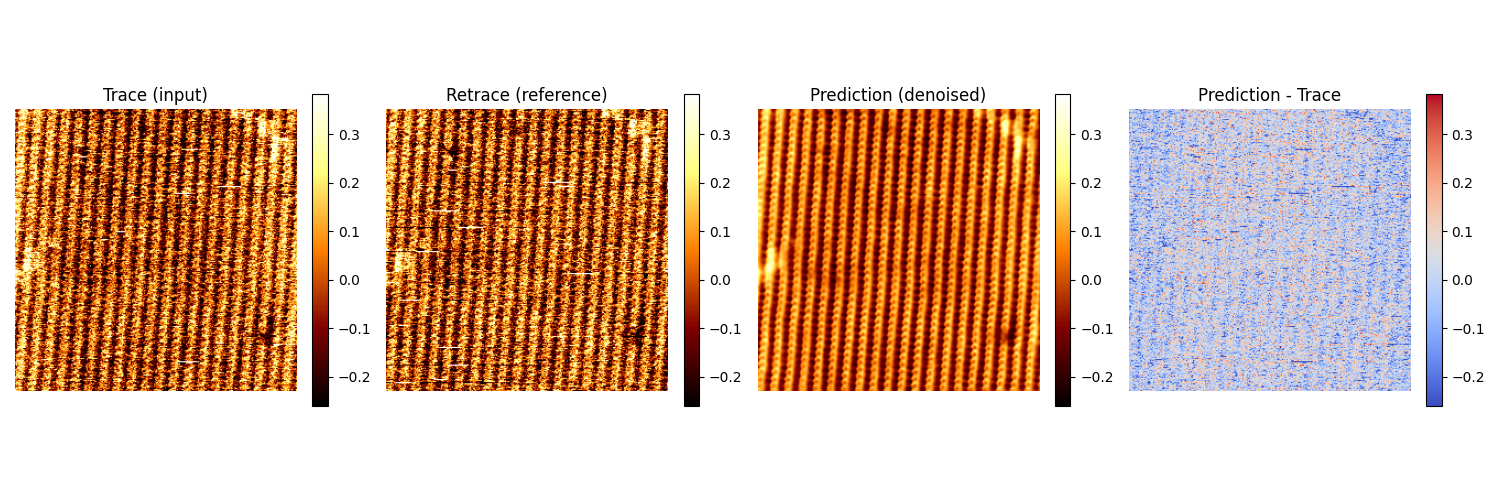
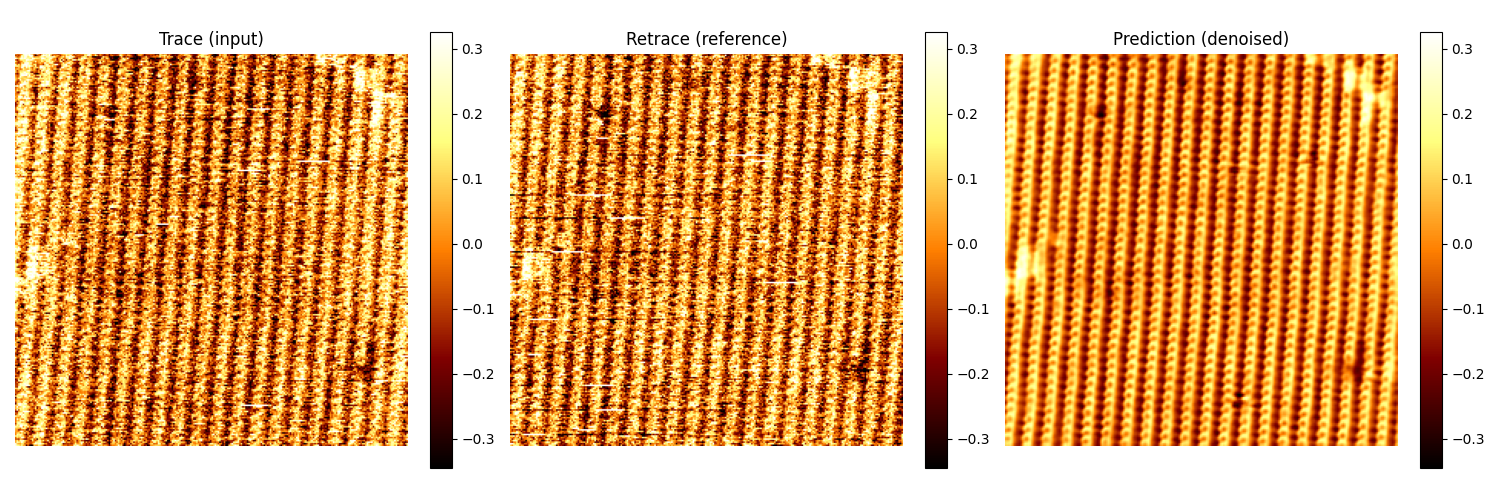
upd_img

diff --git a/README.md b/README.md
@@ -13,8 +13,8 @@ The name stands for **self-superVised Image denoising with Paired learning and E
 
 ## Denoising Example
 
-![PLACEHOLDER: First AFM example comparing trace, retrace, and VIPER output.](docs/images/denoising-example.png)
-![PLACEHOLDER: Second AFM example comparing trace, retrace, and VIPER output.](docs/images/denoising-example2.png)
+![C2denoised_example](docs/images/denoising-example.png)
+![C1denoised_example](docs/images/denoising-example2.png)
 
 *Denoised Example, from left to right: AFM Trace, AFM Retrace, Denoised, Difference*
 
